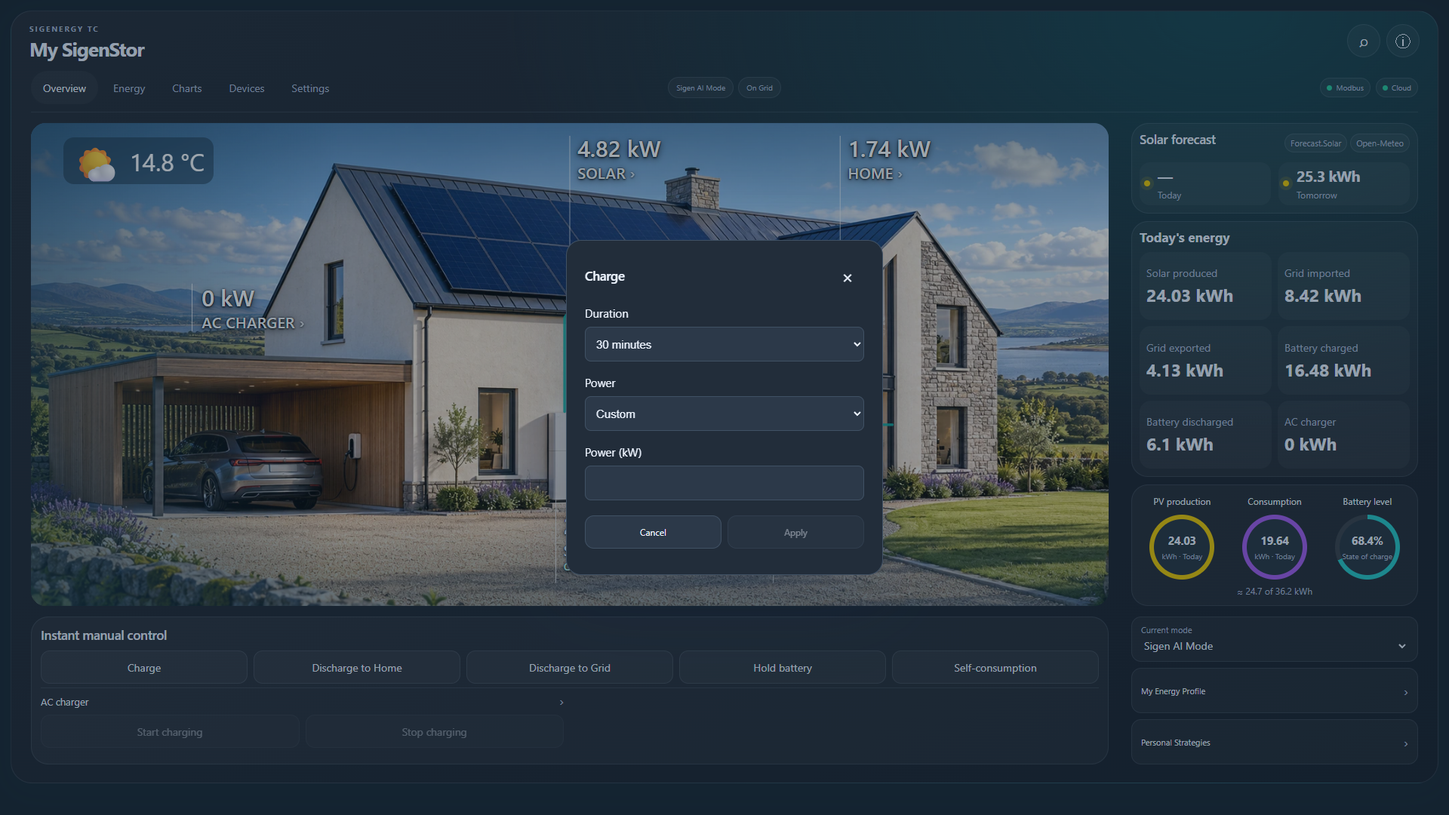
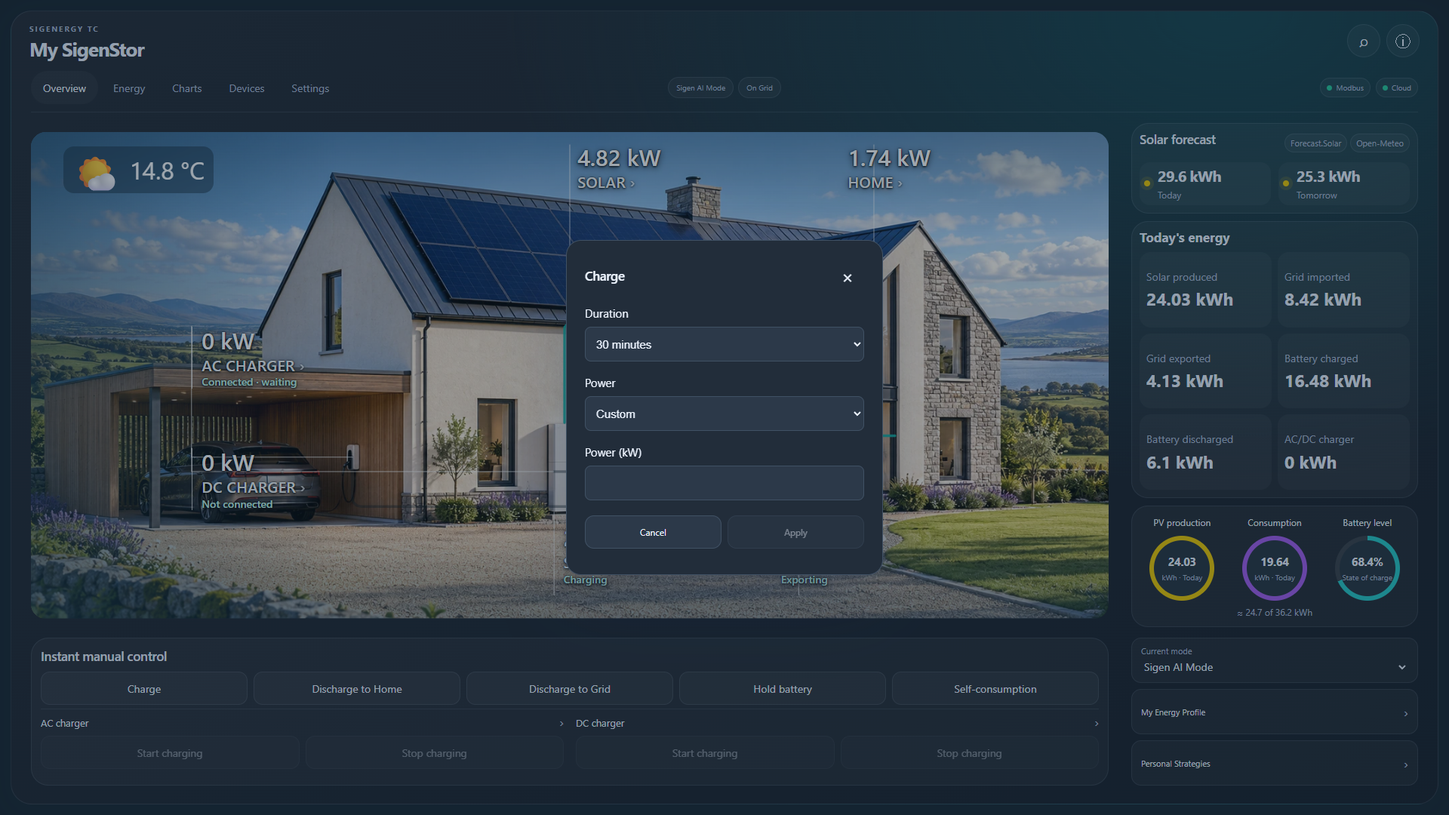
Prepare Sigenergy TC 0.2.9 public Beta

diff --git a/custom_components/sigen_hybrid/frontend/sigen-hybrid-navigation.js b/custom_components/sigen_hybrid/frontend/sigen-hybrid-navigation.js
@@ -1,13 +1,13 @@
 /* SPDX-License-Identifier: GPL-3.0-only */
-import { renderDeviceDetail, solarStringSeries, DETAIL_STYLE } from './sigen-hybrid-details.js?v=0.2.9-chartfix.2';
-import { presetTarget, renderPreset, PRESET_STYLE } from './sigen-hybrid-presets.js?v=0.2.9';
-import { bindNativeStrategies } from './sigen-hybrid-strategies.js?v=0.2.9';
-import { renderSettingsDetail, collectSettings, SETTINGS_STYLE, SETTINGS_ROUTES, CHART_CHOICES, DEFAULT_CHART_SELECTION, DISPLAY_MODULES, DISPLAY_PRESETS, HOMEPAGE_APPEARANCES, HOMEPAGE_BACKGROUNDS, homepageBackground, displayDefaults, encodeChargerScheduleId, decodeChargerScheduleId, bindTariffEditor, bindStrategyEditor, OPERATING_MODES, observedOperatingMode, renderOverviewModeControl, strategyExportEligibility } from './sigen-hybrid-settings.js?v=0.2.9-chartfix.2';
-import { periodRange, dateAt, shiftDate, toCSV, preserveChartScroll } from './sigen-hybrid-charts.js?v=0.2.9';
-import { renderSummaryWidget, renderSummaryDetail, WIDGET_ROUTES, WIDGET_STYLE } from './sigen-hybrid-widgets.js?v=0.2.9';
-import { ENERGY_ROUTES, renderEnergyProfile, ENERGY_STYLE, ownerSettingTarget, renderOwnerSetting, collectOwnerSetting, bindOwnerSettingForm } from './sigen-hybrid-energy.js?v=0.2.9';
-import { renderChargingEnergy, renderTodayEnergy, renderBatteryLevel, renderMobilePower, renderChargerControls } from './sigen-hybrid-overview.js?v=0.2.9';
-import { modeChoices, selectedMode, nativeModeChoices } from './sigen-hybrid-settings.js?v=0.2.9-chartfix.2';
+import { renderDeviceDetail, solarStringSeries, DETAIL_STYLE } from './sigen-hybrid-details.js?v=0.2.9-release';
+import { presetTarget, renderPreset, PRESET_STYLE } from './sigen-hybrid-presets.js?v=0.2.9-release';
+import { bindNativeStrategies } from './sigen-hybrid-strategies.js?v=0.2.9-release';
+import { renderSettingsDetail, collectSettings, SETTINGS_STYLE, SETTINGS_ROUTES, CHART_CHOICES, DEFAULT_CHART_SELECTION, DISPLAY_MODULES, DISPLAY_PRESETS, HOMEPAGE_APPEARANCES, HOMEPAGE_BACKGROUNDS, homepageBackground, displayDefaults, encodeChargerScheduleId, decodeChargerScheduleId, bindTariffEditor, bindStrategyEditor, OPERATING_MODES, observedOperatingMode, renderOverviewModeControl, strategyExportEligibility } from './sigen-hybrid-settings.js?v=0.2.9-release';
+import { periodRange, dateAt, shiftDate, toCSV, preserveChartScroll } from './sigen-hybrid-charts.js?v=0.2.9-release';
+import { renderSummaryWidget, renderSummaryDetail, WIDGET_ROUTES, WIDGET_STYLE } from './sigen-hybrid-widgets.js?v=0.2.9-release';
+import { ENERGY_ROUTES, renderEnergyProfile, ENERGY_STYLE, ownerSettingTarget, renderOwnerSetting, collectOwnerSetting, bindOwnerSettingForm } from './sigen-hybrid-energy.js?v=0.2.9-release';
+import { renderChargingEnergy, renderTodayEnergy, renderBatteryLevel, renderMobilePower, renderChargerControls } from './sigen-hybrid-overview.js?v=0.2.9-release';
+import { modeChoices, selectedMode, nativeModeChoices } from './sigen-hybrid-settings.js?v=0.2.9-release';
 
 const escape = value => String(value ?? '').replace(/[&<>"']/g, c => ({ '&':'&amp;', '<':'&lt;', '>':'&gt;', '"':'&quot;', "'":'&#39;' })[c]);
 

diff --git a/custom_components/sigen_hybrid/frontend/sigen-hybrid-card.js b/custom_components/sigen_hybrid/frontend/sigen-hybrid-card.js
@@ -1,4 +1,4 @@
-import { chargerStatus, overrideModel, renderOverride, STATUS_STYLE } from './sigen-hybrid-status.js?v=0.2.9';
+import { chargerStatus, overrideModel, renderOverride, STATUS_STYLE } from './sigen-hybrid-status.js?v=0.2.9-release';
 /* SPDX-License-Identifier: GPL-3.0-only
  * Sigenergy TC dashboard components. Third-party artwork attribution is
  * retained in sigen-hybrid-photo.js and THIRD_PARTY_NOTICES.md.
@@ -21,15 +21,15 @@ import { chargerStatus, overrideModel, renderOverride, STATUS_STYLE } from './si
  * OUT OF OR IN CONNECTION WITH THE SOFTWARE OR THE USE OR OTHER DEALINGS IN THE
  * SOFTWARE.
  */
-import { installNavigation, CARD_PRESETS, CARD_CHART_CHOICES } from './sigen-hybrid-navigation.js?v=0.2.9-chartfix.2';
-import { installHostFit } from './sigen-hybrid-fit.js?v=0.2.9';
-import { WIDGET_ROUTES } from './sigen-hybrid-widgets.js?v=0.2.9';
-import { renderPhotoScene, PHOTO_STYLE } from './sigen-hybrid-photo.js?v=0.2.9';
-import { renderTodayEnergy, renderBatteryLevel, renderChargerControls, renderMobilePower, OVERVIEW_STYLE } from './sigen-hybrid-overview.js?v=0.2.9';
-import { energySankey as buildEnergySankey } from './sigen-hybrid-sankey.js?v=0.2.9';
-import { renderHouseScene, HOUSE_STYLE } from './sigen-hybrid-house.js?v=0.2.9';
-import { renderDeviceOverview, DEVICE_STYLE } from './sigen-hybrid-devices.js?v=0.2.9';
-import { gridConnectionStatus, connectionIndicators, selectReadingState } from './sigen-hybrid-energy.js?v=0.2.9';
+import { installNavigation, CARD_PRESETS, CARD_CHART_CHOICES } from './sigen-hybrid-navigation.js?v=0.2.9-release';
+import { installHostFit } from './sigen-hybrid-fit.js?v=0.2.9-release';
+import { WIDGET_ROUTES } from './sigen-hybrid-widgets.js?v=0.2.9-release';
+import { renderPhotoScene, PHOTO_STYLE } from './sigen-hybrid-photo.js?v=0.2.9-release';
+import { renderTodayEnergy, renderBatteryLevel, renderChargerControls, renderMobilePower, OVERVIEW_STYLE } from './sigen-hybrid-overview.js?v=0.2.9-release';
+import { energySankey as buildEnergySankey } from './sigen-hybrid-sankey.js?v=0.2.9-release';
+import { renderHouseScene, HOUSE_STYLE } from './sigen-hybrid-house.js?v=0.2.9-release';
+import { renderDeviceOverview, DEVICE_STYLE } from './sigen-hybrid-devices.js?v=0.2.9-release';
+import { gridConnectionStatus, connectionIndicators, selectReadingState } from './sigen-hybrid-energy.js?v=0.2.9-release';
 export const MAIN_DISPLAYS = Object.freeze({ house: 'House', flow: 'Flow', photo: 'Photo house' });
 const COLORS = { solar: '#efc900', battery: '#26c9c8', grid: '#6694ff', home: '#a45bf0', ac: '#b46767', dc: '#d29420' };
 const LABELS = { solar: 'Solar', battery: 'Battery', grid: 'Grid', home: 'Home', ac: 'AC charger', dc: 'DC charger' };

diff --git a/custom_components/sigen_hybrid/frontend/sigen-hybrid-presets.js b/custom_components/sigen_hybrid/frontend/sigen-hybrid-presets.js
@@ -1,7 +1,7 @@
 /* SPDX-License-Identifier: GPL-3.0-only
  * Native presets are observations, never implicitly imported HA automations.
  */
-import { STRATEGY_ROUTES, strategyActions, newStrategyButton, renderStrategyAction } from './sigen-hybrid-strategies.js?v=0.2.9';
+import { STRATEGY_ROUTES, strategyActions, newStrategyButton, renderStrategyAction } from './sigen-hybrid-strategies.js?v=0.2.9-release';
 const esc=value=>String(value??'').replace(/[&<>"']/g,c=>({'&':'&amp;','<':'&lt;','>':'&gt;','"':'&quot;',"'":'&#39;'})[c]);
 const object=value=>value&&typeof value==='object'&&!Array.isArray(value)?value:{};
 const row=(title,route,id,detail='')=>`<button type="button" class="settings-row native-preset-row" data-detail="${esc(route)}"${id==null?'':` data-id="${esc(id)}"`}><span>${esc(title)}</span><span class="settings-row-value">${esc(detail)}</span></button>`;

diff --git a/custom_components/sigen_hybrid/frontend/sigen-hybrid-details.js b/custom_components/sigen_hybrid/frontend/sigen-hybrid-details.js
@@ -1,8 +1,8 @@
 /* SPDX-License-Identifier: GPL-3.0-only
  * Pure device-detail views. Navigation, charts and data access belong to the host.
  */
-import { renderChargerButtons } from './sigen-hybrid-overview.js?v=0.2.9';
-import { renderDeviceGraphic } from './sigen-hybrid-devices.js?v=0.2.9';
+import { renderChargerButtons } from './sigen-hybrid-overview.js?v=0.2.9-release';
+import { renderDeviceGraphic } from './sigen-hybrid-devices.js?v=0.2.9-release';
 export const escapeDetailHTML = value => String(value ?? '').replace(/[&<>"']/g, character => ({ '&': '&amp;', '<': '&lt;', '>': '&gt;', '"': '&quot;', "'": '&#39;' })[character]);
 const esc = escapeDetailHTML;
 const absent = value => value === null || value === undefined || typeof value === 'string' && (!value.trim() || ['unknown', 'unavailable', 'none'].includes(value.toLowerCase()));

diff --git a/custom_components/sigen_hybrid/frontend/sigen-hybrid-photo.js b/custom_components/sigen_hybrid/frontend/sigen-hybrid-photo.js
@@ -1,5 +1,5 @@
-import { chargerStatus } from './sigen-hybrid-status.js?v=0.2.9';
-import { renderSceneWeather, renderWeatherEffects } from './sigen-hybrid-house.js?v=0.2.9';
+import { chargerStatus } from './sigen-hybrid-status.js?v=0.2.9-release';
+import { renderSceneWeather, renderWeatherEffects } from './sigen-hybrid-house.js?v=0.2.9-release';
 /*
  * Copyright 2025-2026 Jean-Yves Avenard
  *

diff --git a/custom_components/sigen_hybrid/frontend/sigen-hybrid-house.js b/custom_components/sigen_hybrid/frontend/sigen-hybrid-house.js
@@ -1,4 +1,4 @@
-import { chargerStatus } from './sigen-hybrid-status.js?v=0.2.9';
+import { chargerStatus } from './sigen-hybrid-status.js?v=0.2.9-release';
 /* SPDX-License-Identifier: GPL-3.0-only
  * Owner-supplied original house artwork with independent, readable HTML labels.
  * The host supplies normalized readings and trusted cable SVG markup, and owns

diff --git a/custom_components/sigen_hybrid/frontend/sigen-hybrid-overview.js b/custom_components/sigen_hybrid/frontend/sigen-hybrid-overview.js
@@ -1,4 +1,4 @@
-import { chargerStatus } from './sigen-hybrid-status.js?v=0.2.9';
+import { chargerStatus } from './sigen-hybrid-status.js?v=0.2.9-release';
 /* SPDX-License-Identifier: GPL-3.0-only
  * Pure compact overview panels. The host supplies normalized readings and
  * handles detail navigation; these renderers never access a provider or HA.

diff --git a/README.md b/README.md
@@ -1,13 +1,13 @@
-![Sigenergy TC — Total Control](docs/images/header.png)
-
 # Sigenergy TC — Total Control for Home Assistant
 
-> **INVITATION-ONLY ALPHA — DO NOT INSTALL unless you have been invited by MBS Integrations.**
+> **Public Beta · 0.2.9**
 >
-> Version **0.2.8** is an experimental, owner-supervised control release. It is not a stable release or a Sigenergy product. Real commands can change battery operation, charging and grid connection. Read the [control and recovery guide](docs/controls-and-recovery.md) before enabling control.
+> Sigenergy TC can change battery operation, EV charging and grid connection. Review the [control and recovery guide](docs/controls-and-recovery.md) before enabling writes.
 
 [![Validation](https://github.com/mbsintegrations/HomeAssistant-Sigenergy-TC/actions/workflows/validate.yml/badge.svg)](https://github.com/mbsintegrations/HomeAssistant-Sigenergy-TC/actions/workflows/validate.yml)
-[![HACS Custom](https://img.shields.io/badge/HACS-Custom-41BDF5.svg)](https://www.hacs.xyz/docs/faq/custom_repositories/)
+[![Open HACS](https://my.home-assistant.io/badges/hacs_repository.svg)](https://my.home-assistant.io/redirect/hacs_repository/?owner=mbsintegrations&repository=HomeAssistant-Sigenergy-TC&category=integration)
+[![Manual Installation](https://img.shields.io/badge/Manual-Installation-0078D4?style=for-the-badge)](docs/installation.md#manual-installation)
+[![Add Integration](https://my.home-assistant.io/badges/config_flow_start.svg)](https://my.home-assistant.io/redirect/config_flow_start/?domain=sigen_hybrid)
 [![Release](https://img.shields.io/github/v/release/mbsintegrations/HomeAssistant-Sigenergy-TC)](https://github.com/mbsintegrations/HomeAssistant-Sigenergy-TC/releases)
 [![License](https://img.shields.io/badge/License-GPLv3-blue.svg)](LICENSE)
 [![MBS Integrations](https://img.shields.io/badge/Website-mbsintegrations.ie-0078D4?style=flat)](https://mbsintegrations.ie)
@@ -15,12 +15,14 @@
 
 A local-first Home Assistant integration and responsive energy dashboard for SigenStor systems. Use **Modbus**, **mySigen Cloud**, or **both**. Each owner supplies their own cloud credentials. No developer application, NBI key, hosted MBS backend or VPP registration is needed.
 
-[0.2.8 release notes](docs/release-0.2.8.md) · [Validation and acceptance scope](docs/acceptance.md)
+![Full Sigenergy TC dashboard overview showing the house, live power, forecasts, daily energy, battery SOC and controls](docs/images/desktop-overview.png)
+
+[0.2.9 Beta release notes](docs/release-0.2.9.md) · [Installation and setup](docs/installation.md) · [User guide](docs/user-guide.md) · [Validation and acceptance scope](docs/acceptance.md)
 
 ## Features
 
 - Local power, battery SOC, native energy counters and persistent daily baselines, with cached measured Cloud daily buckets covering the first installation day. Independent cloud availability lets Modbus continue during internet failures.
-- Optional cached cloud telemetry, history, supported operating modes, discovered battery modules, gateway and charger information. Existing mySigen Personal Strategies, tariffs and device configuration are read through your configured Cloud login; see [native settings and coverage](docs/native-settings.md). Native Personal Strategies also have [New, Change, Rename and Delete controls](docs/native-strategies.md), subject to the documented Alpha acceptance scope.
+- Optional cached cloud telemetry, history, supported operating modes, discovered battery modules, gateway and charger information. Existing mySigen Personal Strategies, tariffs and device configuration are read through your configured Cloud login; see [native settings and coverage](docs/native-settings.md). Native Personal Strategies also have [New, Change, Rename and Delete controls](docs/native-strategies.md), subject to the documented hardware acceptance scope.
 - Real local/cloud battery charge, discharge to home, discharge to grid, hold and self-consumption commands; native cloud mode selection, gateway switching and AC/DC charger start/stop.
 - Owner SOC, battery/PV power, backup reserve, grid power/current, energy priorities, peak-shaving and AC/DC charging-mode settings. Popups read actual settings and reject stale edits. [Setting formats and availability](docs/owner-settings.md).
 - Durable command journal, fresh identity/permission checks, finite power/SOC bounds and compare-before-restore recovery. Cloud manual commands use native expiry; explicitly enabled local commands use HA-managed timing and native SOC thresholds. Owner changes take priority.
@@ -35,15 +37,15 @@ A local-first Home Assistant integration and responsive energy dashboard for Sig
 
 Use **Settings → Devices & services → Sigenergy TC → Configure → Add to dashboard** to place the full interface on an existing editable page or supported custom-shell menu. Embedded layouts measure their available space below dashboard headers. See [dashboard placement and sizing](docs/dashboard-embedding.md).
 
-## Invited testers: install with HACS
+## Install with HACS as a custom repository
 
 1. Back up Home Assistant and record the plant's existing mySigen settings. Keep the existing integration and automations intact until conflicts have been reviewed.
 2. In **HACS → menu → Custom repositories**, add `https://github.com/mbsintegrations/HomeAssistant-Sigenergy-TC` with category **Integration**.
-3. Download **Sigenergy TC**, restart Home Assistant, then use **Settings → Devices & services → Add integration → Sigenergy TC**.
+3. Download **Sigenergy TC (Total Control)** version **0.2.9**, restart Home Assistant, then use **Settings → Devices & services → Add integration → Sigenergy TC**.
 4. Choose Modbus, Cloud, or both. Cloud login discovers the plant; no station ID is entered. Configure safety limits and deliberately choose whether to enable control.
 5. Open **Settings → Devices & services → Sigenergy TC → Configure → Add to dashboard**. Choose your existing dashboard and page, or a supported custom-menu destination. For a separate dashboard, new page or individual cards, follow the [illustrated dashboard guide](docs/dashboard-embedding.md#choose-where-to-put-it). No YAML or third-party cards are required for a normal editable HA dashboard.
 
-Requires **Home Assistant 2026.10.1 or later**. This repository is public for HACS testing, but is **not submitted to the HACS default catalogue**. The invitation notice describes supported alpha participation; it does not add license restrictions or technical access control.
+Requires **Home Assistant 2026.10.1 or later**. Use the custom repository steps while the project is outside the default HACS catalogue. **Open HACS** opens the repository in your Home Assistant instance. **Add Integration** opens the setup wizard after installation and restart.
 
 [Installation and upgrades](docs/installation.md) · [Controls and recovery](docs/controls-and-recovery.md) · [Strategies and tariffs](docs/strategies.md) · [Existing mySigen settings](docs/native-settings.md) · [Cards](docs/cards.md) · [Embedding](docs/dashboard-embedding.md) · [Charts](docs/chart-catalogue.md) · [Troubleshooting](docs/troubleshooting.md) · [Screenshots](docs/screenshots.md) · [Changes](CHANGELOG.md)
 
@@ -51,14 +53,12 @@ Requires **Home Assistant 2026.10.1 or later**. This repository is public for HA
 
 Screenshots use illustrative, non-private example readings. They demonstrate the interface, not physical command acceptance.
 
-![Desktop overview](docs/images/desktop-overview.png)
-
 <img alt="Phone overview" src="docs/images/phone-overview.png" width="310"> <img alt="Tablet overview" src="docs/images/tablet-overview.png" width="620">
 
 ## Development and support
 
 **Bug reports and feature requests: [GitHub Issues only](https://github.com/mbsintegrations/HomeAssistant-Sigenergy-TC/issues).** Please do not send them by email, Facebook, Messenger or private message. See [what to include](SUPPORT.md).
 
-Run `python -m pytest -q`, `ruff check custom_components tests tools`, and `npm test`. GitHub Actions runs those tests plus official Hassfest and HACS validation, without ignored checks. Software tests use synthetic transports; they do not prove real-world plant behavior. See [contributing](CONTRIBUTING.md), [security](SECURITY.md), and [alpha testing](docs/alpha-testing.md).
+Run `python -m pytest -q`, `ruff check custom_components tests tools`, and `npm test`. GitHub Actions runs those tests plus official Hassfest and HACS validation, without ignored checks. Software tests use synthetic transports; they do not prove real-world plant behavior. See [contributing](CONTRIBUTING.md), [security](SECURITY.md), and [Beta testing](docs/alpha-testing.md).
 
 Code and original artwork: **GPL-3.0-only**. Third-party adaptations retain their notices in [THIRD_PARTY_NOTICES.md](THIRD_PARTY_NOTICES.md). Sigenergy and other product names remain their owners' trademarks. No affiliation or endorsement is claimed.

diff --git a/docs/installation.md b/docs/installation.md
@@ -1,6 +1,6 @@
 # Installation, setup, upgrades and removal
 
-**Invitation-only Alpha. Do not install unless invited by MBS Integrations.** Minimum Home Assistant: 2026.10.1.
+**Public Beta.** Minimum Home Assistant: 2026.10.1. Start here for a fresh install or upgrade. For day-to-day use, see the [dashboard and controls guide](user-guide.md).
 
 ## Before installation
 
@@ -8,10 +8,11 @@ Create a restorable HA backup. Record current mySigen mode, SOC charge/discharge
 
 ## HACS
 
+Until the integration is included in the default catalogue, register it as a custom repository once per HA instance. HACS handles subsequent downloads and updates.
 1. Check that HA is **2026.10.1 or later** and [HACS is installed](https://www.hacs.xyz/docs/use/download/download/).
 2. Open **HACS → menu (three dots) → Custom repositories**.
 3. Enter `https://github.com/mbsintegrations/HomeAssistant-Sigenergy-TC`, select **Integration**, then **Add**.
-4. Find **Sigenergy TC** in HACS and download **0.2.8**. It is an invitation-only Alpha, distributed as a normal version number.
+4. Open **Sigenergy TC (Total Control)** in HACS, choose **Download**, select **0.2.9**, and confirm.
 5. **Restart Home Assistant**. A browser refresh alone does not load an integration update.
 6. Open **Settings → Devices & services → Add integration**, search for **Sigenergy TC**, and complete its wizard.
 7. Choose Modbus, Cloud, or both; enter your own connection details. Select any already configured forecast sources, then review control permissions before finishing.
@@ -21,7 +22,10 @@ A GitHub/HACS login is separate from the plant's mySigen login. There is no NBI 
 
 ## Manual installation
 
-Download `sigenergy-tc-0.2.8.zip` and `SHA256SUMS.txt` from the [0.2.8 release](https://github.com/mbsintegrations/HomeAssistant-Sigenergy-TC/releases/tag/0.2.8). Verify the SHA-256 before extraction. Merge the ZIP's `custom_components/sigen_hybrid` into HA's `config/custom_components/sigen_hybrid`; avoid an extra nested folder. Restart HA and use the native setup dialog. Do not copy the whole repository into `custom_components`.
+1. Download `sigenergy-tc-0.2.9.zip` and `SHA256SUMS.txt` from the [0.2.9 Beta release](https://github.com/mbsintegrations/HomeAssistant-Sigenergy-TC/releases/tag/0.2.9).
+2. Check the download with `sha256sum -c SHA256SUMS.txt` from the download directory. On Windows, use `Get-FileHash -Algorithm SHA256 .\sigenergy-tc-0.2.9.zip` and compare it with the value in `SHA256SUMS.txt`.
+3. Extract the archive. Copy its `custom_components/sigen_hybrid` directory into Home Assistant's configuration directory so that `config/custom_components/sigen_hybrid/manifest.json` exists. For an upgrade, back up the old component folder and replace it as a unit to avoid stale files.
+4. Restart HA. On a fresh install, open **Settings → Devices & services → Add integration → Sigenergy TC**. For an upgrade, keep the existing entry and reopen the dashboard.
 
 ## Connections
 
@@ -52,13 +56,15 @@ Select up to two loaded forecast sources and **Average selected forecasts** dire
 
 Choose **full interface on an existing page**, **separate HA dashboard**, **supported custom-menu drop-in**, or **individual cards/charts** in the [step-by-step placement guide](dashboard-embedding.md#choose-where-to-put-it). These are placement choices for the same installed integration.
 
-Storage-mode Lovelace receives `/sigen_hybrid/sigen-hybrid-card.js` automatically if no existing Sigenergy TC card resource is registered. Existing resource URLs are preserved. If using YAML resources, add that path as `type: module` yourself. Do not register both a copied `/local/` module and the bundled module. Refresh the browser after an upgrade.
+Storage-mode Lovelace receives `/sigen_hybrid/sigen-hybrid-card.js` automatically if no existing Sigenergy TC card resource is registered. TC refreshes the cache version of its bundled storage resource and leaves separately hosted resources alone. If using YAML resources, add that path as `type: module` yourself. Do not register both a copied `/local/` module and the bundled module. Refresh the browser after an upgrade.
 
 To add it to an existing dashboard without YAML, open **Configure → Add to dashboard**, choose the existing dashboard and destination, then submit. An updated Tab A7 custom shell can receive the full interface in its Solar menu. Alternatively, add a panel view or use an ordinary Sections view. Pick the integration in the card editor. A single detected entry is selected automatically by the card stub; multiple plants require an explicit choice. Configure weather and appearance there. The default main scene is Photo House. No card-mod or third-party chart library is required. See [cards](cards.md) and [embedding](dashboard-embedding.md).
 
 ## Updates
 
-Read the release notes; take a backup; release active commands before restarting or updating; download in HACS; restart HA; refresh clients. Keep previous releases and backups available. The domain remains `sigen_hybrid` to preserve entity identities despite the product rename. Update this repository's documentation and screenshot gallery when behavior changes.
+Read the release notes and take a backup. Finish or release any active TC command and let any temporary charging session restore its original mode. In HACS, open the installed repository and use **Update** or **Redownload** to select the desired version. Restart HA, then reload each browser or Companion App. Confirm the existing entry, Modbus/Cloud status, battery SOC and your saved chart selection.
+
+To roll back, resolve active commands first, redownload the previous version or restore the backed-up component and configuration, then restart HA. Check plant settings in mySigen after rollback. The domain remains `sigen_hybrid` to preserve entity and dashboard references.
 
 ## Removal
 
@@ -69,5 +75,3 @@ Disable scheduled strategies and release any active TC command while Cloud is av
 Under **Configure → Modbus**, optional **AC charger Modbus unit ID** and **DC charger inverter Modbus unit ID** fields identify the actual devices on the configured endpoint. Use the inverter unit hosting the DC charger, not plant unit 247. Leaving a field empty permits unambiguous reuse of a currently configured Sigen Local Modbus device on that same host/port. Conflicting or foreign-endpoint configurations are never guessed or scanned.
 
 The reads use AC registers 32000/32003 and DC registers 31513/31502, with the register definitions and attribution retained in the source. Unsupported charger reads do not disable aggregate plant measurements. Charger telemetry entities are added for configured/discovered devices; absent devices are not invented. Cloud inventory may establish installed presence without supplying a connection-state measurement. Such a state remains Unknown; map an existing state sensor explicitly if needed.
-
-Upgrade to **0.2.8** through HACS, restart HA, and fully reload the tablet/browser or Companion App. Keep the existing integration entry and dashboard. Verify both charger labels, the override header and existing native presets under Personal strategies / My Energy Profile. Native Personal Strategies now expose New, Change, Rename and Delete to administrators with Cloud control enabled. Existing control permissions are preserved; no new key or dashboard is needed. Read the [0.2.8 release notes](release-0.2.8.md) before testing; physical native strategy write acceptance remains pending.

diff --git a/docs/acceptance.md b/docs/acceptance.md
@@ -1,22 +1,22 @@
 # Release validation
 
-## Beta candidate live checks
+## 0.2.9 Beta
 
-On 10 November 2026 the embedded Tab A7 dashboard showed the plant-level battery percentage in the scene and battery ring with individual battery modules present. Adding Home consumption rendered the chart and persisted across a reload. The original preferences were restored after the check. PV Strings plotted two Recorder series from power sensors mapped to the same verified inverter.
+Live checks on an embedded dashboard confirmed plant-level battery percentage in the scene and battery ring with individual battery modules present. Chart selection persisted across a reload. PV Strings plotted two Recorder series mapped to the same inverter.
 
 Live Home Assistant returned fresh Modbus and Cloud status, both configured forecast sources, Recorder and Cloud SOC history, and a tariff/forecast planning preview. Read-only checks covered the active operating mode, SOC limits, backup reserve, grid connection and export limit, AC/DC charge modes, DC charging limits, native profiles, tariffs, strategies, and both charger schedule lists. The live controller accepted dry runs for Hold, Charge, Discharge and Self-consumption. The AC session preview returned the existing charger mode.
 
-Beta hardware acceptance still needs a supervised pass for live control, expiry/cancel and restoration, charger operation, grid transfer, and native configuration or strategy writes. Test AC override restoration with a connected vehicle in PV Surplus mode. The DC temporary override and state-aware charger buttons remain tracked under [issue #16](https://github.com/mbsintegrations/HomeAssistant-Sigenergy-TC/issues/16).
+The owner confirmed charger operation, battery Hold and grid transfer on their installed system. The separate end-to-end AC Surplus restoration, command expiry/cancel and native configuration writes are outside that report. DC temporary override and state-aware charger buttons remain tracked under [issue #16](https://github.com/mbsintegrations/HomeAssistant-Sigenergy-TC/issues/16).
 
 ## 0.2.8 native strategy Alpha
 
 590 backend and 443 frontend tests pass, with Ruff. Six browser cases exercise native strategy creation, editing, rename, delete, cancellation and proposal confirmation at desktop, tablet and phone sizes. The actual Cloud account returned saved native conversations and an informational assistant response using the ordinary configured account; fresh before/after reads showed unchanged plant strategies. Inert HA Test startup served the new strategy module and rejected native writes with control disabled. Supervised acceptance of real native strategy create/change/rename/delete writes is still pending. Release 0.2.8 makes these controls available for invited owner testing; the software checks and read-only account tests do not establish physical command acceptance. See the [release notes](release-0.2.8.md).
 
-The validation workflow runs synthetic backend/frontend tests and official Hassfest/HACS checks. See the [live checks](https://github.com/mbsintegrations/HomeAssistant-Sigenergy-TC/actions/workflows/validate.yml), [alpha test guide](alpha-testing.md), and [capability matrix](compatibility.md).
+The validation workflow runs synthetic backend/frontend tests and official Hassfest/HACS checks. See the [live checks](https://github.com/mbsintegrations/HomeAssistant-Sigenergy-TC/actions/workflows/validate.yml), [Beta test guide](alpha-testing.md), and [capability matrix](compatibility.md).
 
 Backend tests exercise transport errors, rate limits, partial acceptance/lost responses, restart recovery, immutable identities, owner priority, SOC/power bounds, expiry, export restrictions, DST/overnight scheduling, conflict detection and competing TC writers. Frontend tests exercise cards, charts, navigation, data normalization, availability, forms and control bindings. Browser examples check desktop, tablet and phone rendering without horizontal overflow or JavaScript errors.
 
-HA Test validation keeps plant writes locked and checks native setup, service registration, module resources, independently running read sources and the optional notification blueprint. No software test or isolated readback proves real-world plant control. Physical command acceptance remains pending invited owner testing.
+HA Test validation keeps plant writes locked and checks native setup, service registration, module resources, independently running read sources and the optional notification blueprint. No software test or isolated readback proves real-world plant control. Physical verification is reported separately for each release.
 
 ## 0.2.5 regression verification
 

diff --git a/docs/user-guide.md b/docs/user-guide.md
@@ -1,0 +1,43 @@
+# Sigenergy TC user guide
+
+## Install and place the dashboard
+
+1. Follow the [installation guide](installation.md) to add the custom HACS repository or use the manual ZIP. Restart Home Assistant before adding the integration.
+2. Choose Modbus, mySigen Cloud or both. Check the connection indicators and verify the detected plant and devices against mySigen.
+3. Select your weather entity and optionally configure [solar forecasts](installation.md#forecasts). When averaging two forecasts, use providers configured for the same array.
+4. Use **Configure → Add to dashboard** to place TC on an existing page, in a compatible custom Solar menu, or on a separate dashboard you create in HA. To build your own layout, choose individual cards and charts. [Placement and layout](dashboard-embedding.md) · [Card catalogue](cards.md)
+
+## Find your way around
+
+| Tab | What you can do |
+| --- | --- |
+| Overview | Check live energy flow, today’s totals, forecast and battery SOC. Click scene labels or summary tiles for details. Use manual battery and charger controls when their routes are available. |
+| Energy | Inspect energy totals and the flow breakdown for a selected period. |
+| Charts | Choose a date and period, browse categories and use **Customize charts** to choose which charts appear. Check the chart’s data source when history is empty. [Chart catalogue](chart-catalogue.md) |
+| Devices | Open the inverter, battery modules, gateway or installed charger details supplied by your connections. |
+| Settings | Set appearance and cards, manage forecasts, connections and supported owner settings. |
+
+A dash means the value is unavailable. A zero can be a valid measurement. Modbus keeps supplying local readings when an independently configured Cloud connection is temporarily unavailable. Features that need Cloud recover when that connection returns. [Capability matrix](compatibility.md)
+
+## Battery and grid controls
+
+1. Enable the desired owner control connection and verify your SOC, power and export limits. Give one controller ownership of writes.
+2. From **Instant manual control**, select Charge, Discharge to Home, Discharge to Grid, Hold battery or Self-consumption. Review the duration and power choice before applying. Grid export requires the site’s export permission.
+3. Watch the status and actual plant power. A request can take time to settle. An active timed override shows its remaining duration and provides **Cancel override**.
+4. Gateway transfer is available only when the connected gateway reports that support. Verify grid state after applying a transfer. Follow the [control and recovery guide](controls-and-recovery.md) for restoring settings or handling an unavailable connection.
+
+## AC and DC charging
+
+Open an installed charger on the Overview or Devices tab. Check that the vehicle is connected and review the charger’s status before using **Start charging** or **Stop charging**.
+
+For an AC charger in PV Surplus mode, choose **Wait for solar** to keep that mode, **Temporary Fast Charging** to allow a single fast session, or **Cancel** to exit. Watch for charging and restoration status. TC needs HA and Cloud to reconcile and restore the previous settings. Verify the original mode in mySigen if a session is interrupted. [AC session behavior](release-0.2.9.md#changes)
+
+## Tariffs, strategies and automations
+
+- Use **My Energy Profile** to view available native tariffs or set local rates. Add time windows for variable import or export rates and check the time zone. The forecast-based planner provides recommendations. [Tariffs and schedules](strategies.md)
+- **Personal Strategies** separates plant-native rules from HA schedules. Plant-native changes need supported Cloud control and a review step. HA schedules need their own master enable and an available command route. [Native strategies](native-strategies.md)
+- To use HA automations, review available actions in [controls and recovery](controls-and-recovery.md) and check for overlap with mySigen schedules or another HA integration.
+
+## Troubleshooting and removal
+
+Compare the source indicators, device inventory and timestamps before troubleshooting a missing reading. For charts, check the period, Recorder and any required sensor mapping. For recovery, updates, rollback or removal, use the [installation guide](installation.md) and [troubleshooting](troubleshooting.md). Submit sanitized bug reports and feature requests through [GitHub Issues](https://github.com/mbsintegrations/HomeAssistant-Sigenergy-TC/issues).

diff --git a/docs/alpha-testing.md b/docs/alpha-testing.md
@@ -1,16 +1,16 @@
-# Invited alpha testing
+# Beta testing
 
-This is a functional control alpha for supervised testing, not stable software. Install through HACS yourself; preserve the existing integration, automation configuration and a full backup. Read [controls and recovery](controls-and-recovery.md). Use the real hardware inventory; screenshot fixtures and demonstration devices are not a live plant.
+The public Beta supports supervised testing on owner hardware. Install through HACS yourself; preserve the existing integration, automation configuration and a full backup. Read [controls and recovery](controls-and-recovery.md). Use the real hardware inventory; screenshot fixtures and demonstration devices are not a live plant.
 
 Record HA/integration version, plant firmware/region, connection choices and starting native settings. Establish one intended writer. Compare local and cloud telemetry with matching units/time/date. Test a bounded command and observe actual battery/grid behavior as well as job readback; software confirmation cannot replace physical acceptance. Verify cancellation, native expiry, restoration, owner override, cloud outage, HA restart recovery and rule-window end. Do not induce a grid outage, alter protection settings or enable unapproved export to test availability.
 
-The release must pass synthetic backend/frontend tests and official validation before publication. Isolated HA Test checks installation, services, source availability, assets and safety locks without sending plant commands. Those results do not certify the invited owner's hardware. Report uncovered combinations so this document and capability matrix can be updated.
+The release must pass synthetic backend/frontend tests and official validation before publication. Isolated HA Test checks installation, services, source availability, assets and safety locks without sending plant commands. Those results do not certify the owner's hardware. Report uncovered combinations so this document and capability matrix can be updated.
 
-Use [GitHub Issues only](https://github.com/mbsintegrations/HomeAssistant-Sigenergy-TC/issues) for bug reports and feature requests; do not send them by email, Facebook, Messenger or private message. Include reproducible steps, source choice, date/time zone and relevant versions. Keep secrets and private plant data out of issues and screenshots. See [reporting requirements](../SUPPORT.md). Do not post the release to public groups or invite additional testers on behalf of MBS without agreement.
+Use [GitHub Issues only](https://github.com/mbsintegrations/HomeAssistant-Sigenergy-TC/issues) for bug reports and feature requests; do not send them by email, Facebook, Messenger or private message. Include reproducible steps, source choice, date/time zone and relevant versions. Keep secrets and private plant data out of issues and screenshots. See [reporting requirements](../SUPPORT.md).
 
-## Expanded control tests in 0.2.0
+## Control checks
 
-All implemented owner writes can be enabled; the release has no artificial read-only alpha switch. Existing entries keep their previous enablement. Installation and connection setup send no plant commands.
+All implemented owner writes can be enabled; access follows your enabled control routes. Existing entries keep their previous enablement. Installation and connection setup send no plant commands.
 
 Test charge, both discharge destinations, hold, self-consumption, cancellation, command replacement and expiry. Exercise local and cloud separately, then combined. Check original settings in mySigen after every restoration. For local tests keep HA running, verify the real inverter unit ID, and confirm no other Modbus writer is active. Local home-only discharge caps total grid export at zero; cloud discharge preserves separate PV export.
 
